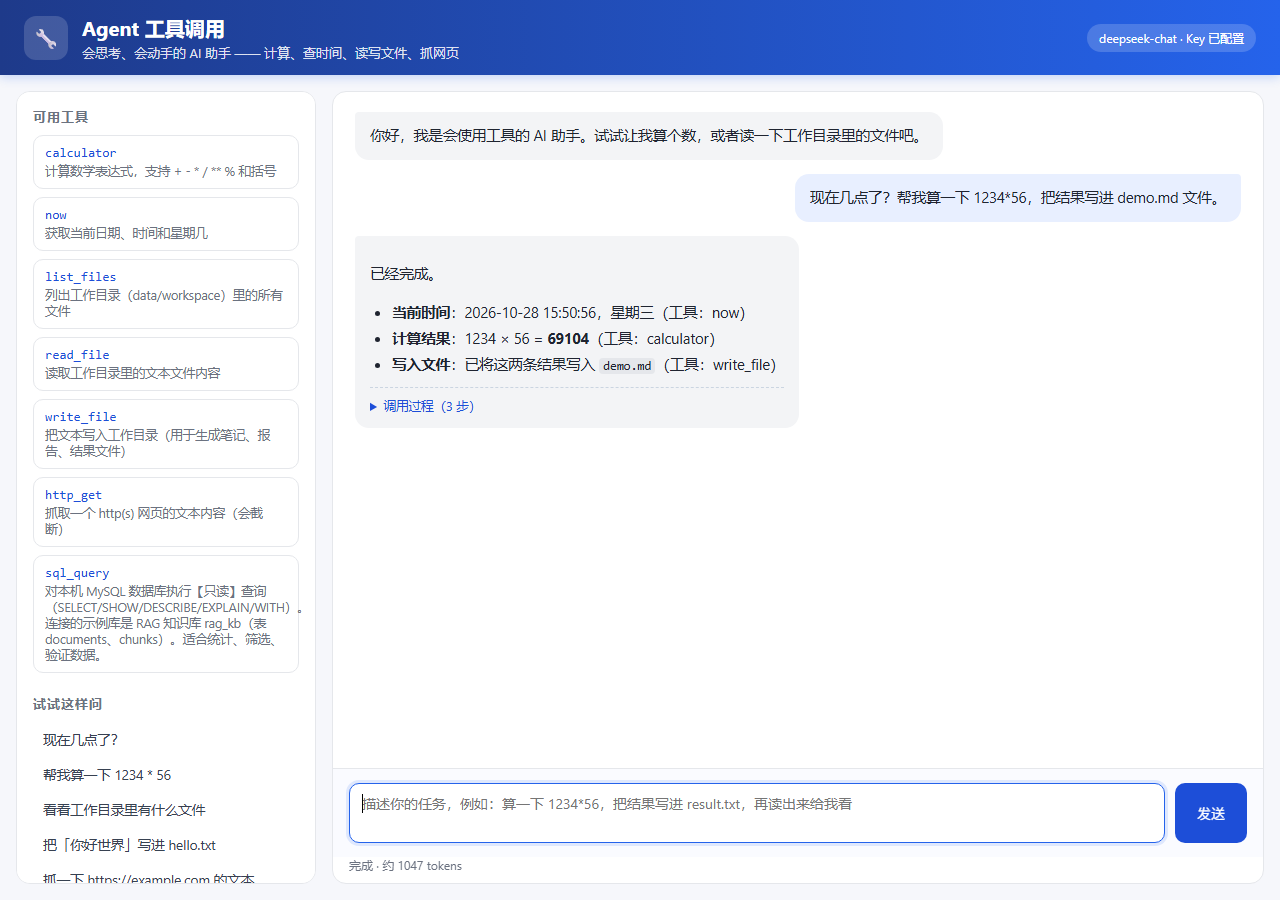
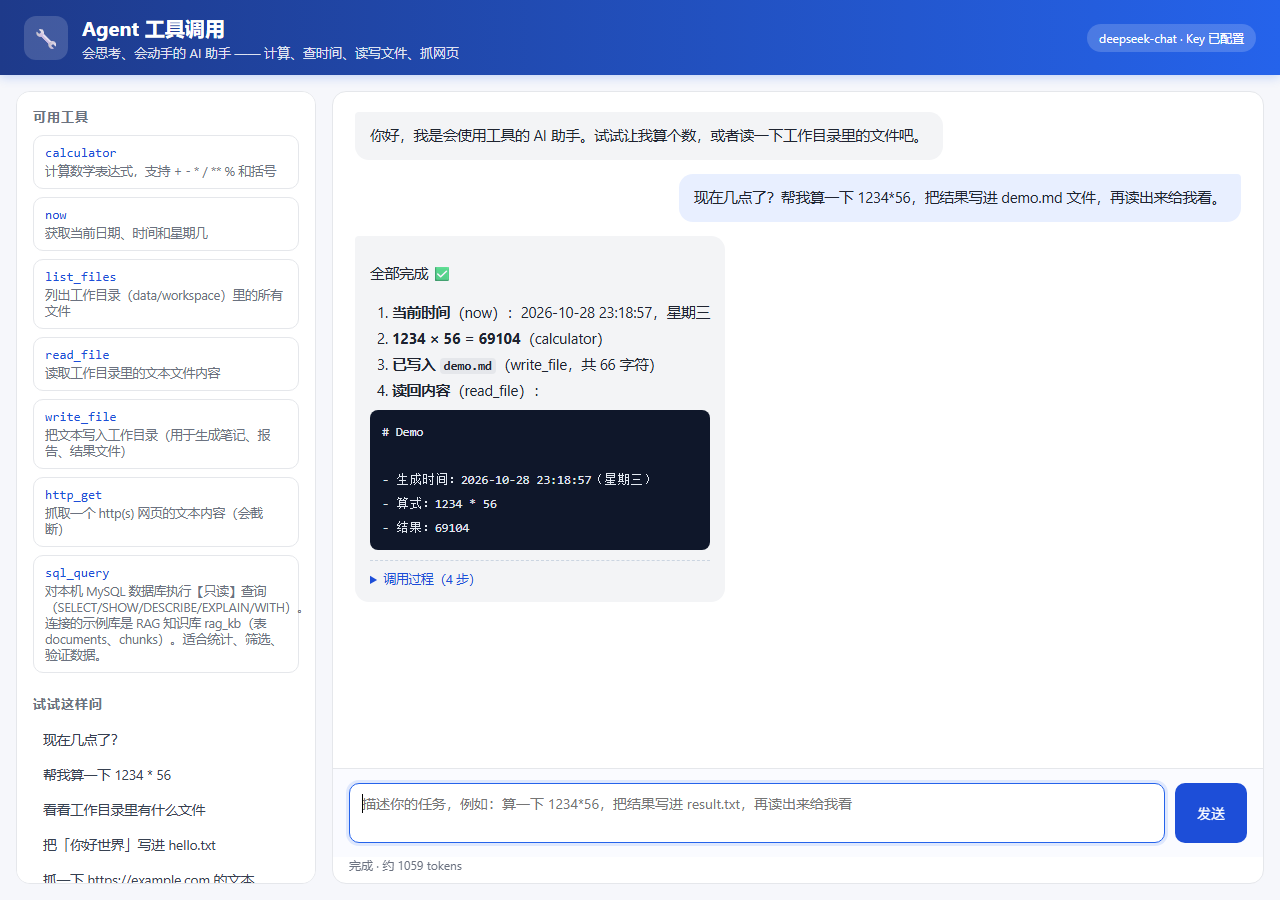
docs: README 增加工具调用/API 文档截图

diff --git a/README.en.md b/README.en.md
@@ -16,7 +16,9 @@ A hand-written **AI Agent** mini-project: the LLM decides on its own when to che
 - 🗂 **Call logging**: every conversation and tool call is persisted to MySQL (`agent_runs` / `tool_calls`); the UI shows a "Recent runs" panel. Without a database it falls back to local JSONL, so tests and demos never break.
 - ✅ **Testable**: tests run without a real model or network; GitHub Actions runs them automatically
 
-![Screenshot](docs/screenshots/chat.png)
+| Tool-call trace | API docs (Swagger UI) |
+|---|---|
+| ![Chat UI](docs/screenshots/chat.png) | ![API docs](docs/screenshots/api.png) |
 
 ## Quick start
 

diff --git a/README.md b/README.md
@@ -17,7 +17,9 @@
 - 🗂 **调用记录**：每次对话与工具调用落库 MySQL（`agent_runs` / `tool_calls` 两张表），前端展示「最近记录」；没配数据库时自动降级为本地 JSONL，测试照样跑
 - ✅ **可测试**：不依赖真实模型和网络也能跑测试，GitHub Actions 自动跑
 
-![界面截图](docs/screenshots/chat.png)
+| 工具调用过程 | API 文档（Swagger UI） |
+|---|---|
+| ![对话界面](docs/screenshots/chat.png) | ![API 文档](docs/screenshots/api.png) |
 
 ## 快速开始
 
